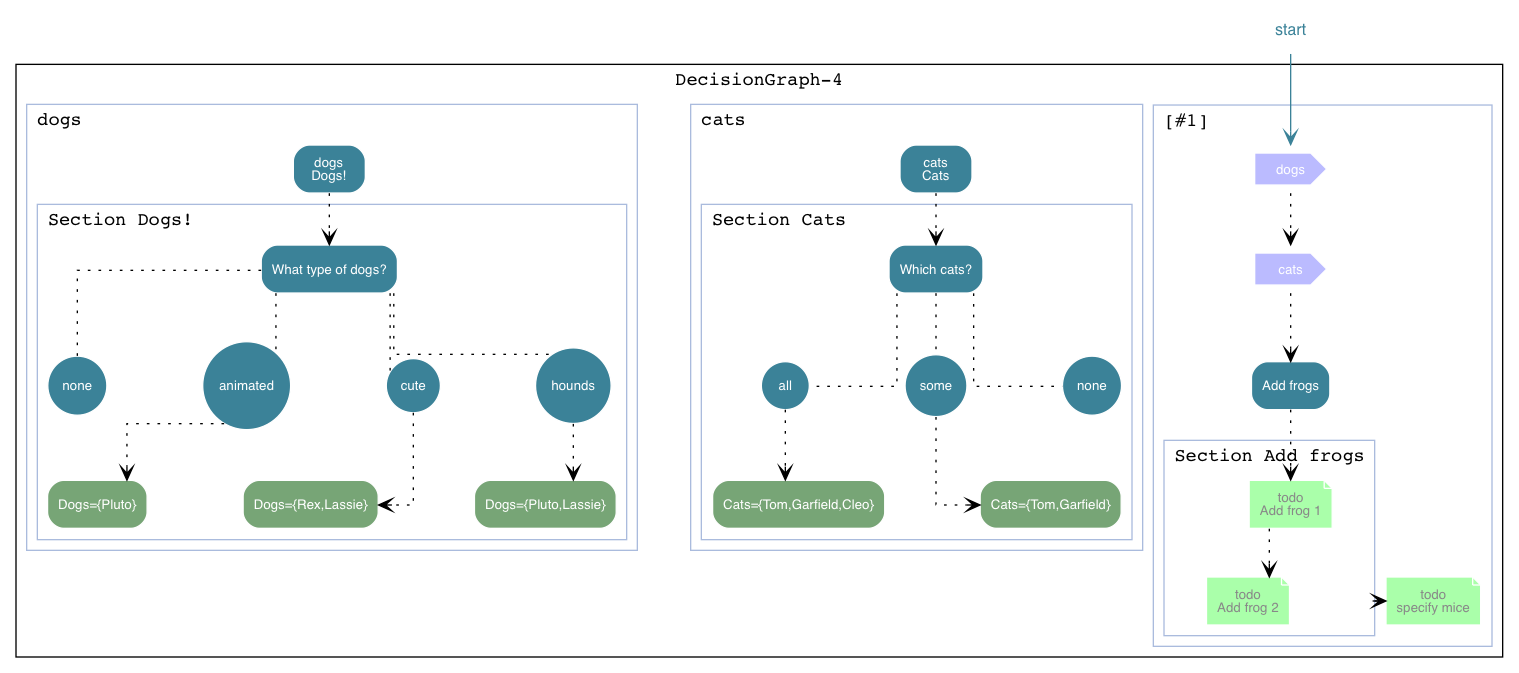
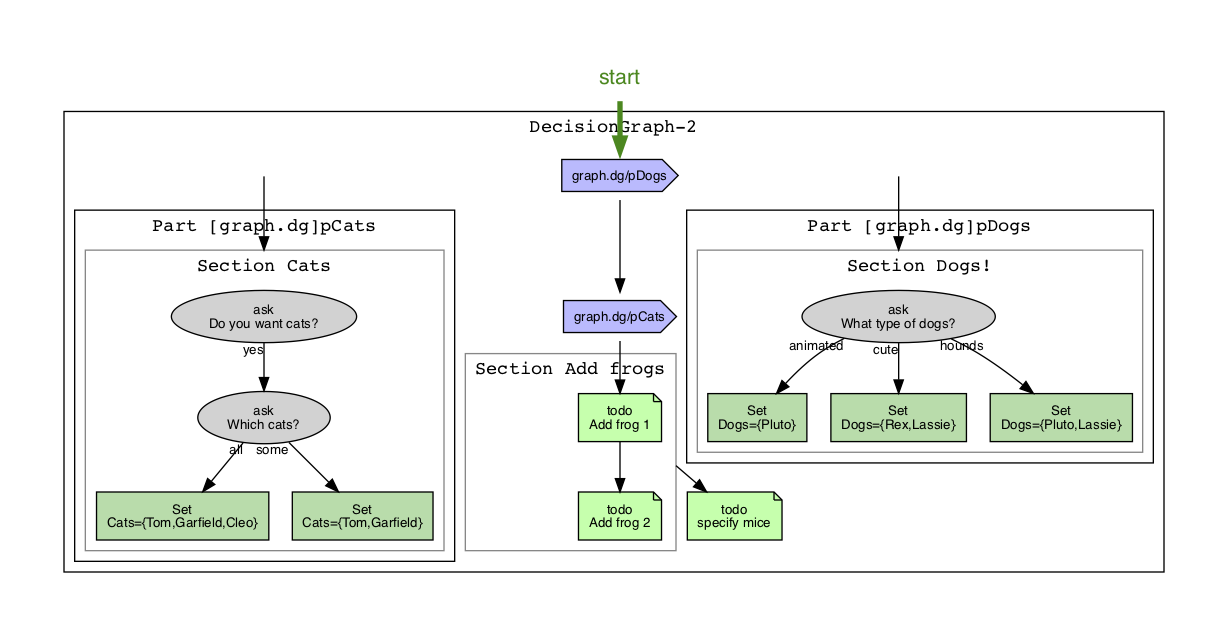
Updated the tutorial to support [part] and [continue]

Changed region(s): [[0.0, 0.0896, 0.9902, 0.9858], [0.8355, 0.0299, 0.8664, 0.0597]]

diff --git a/DOCS/sphinx-source/source/tutorial/section-node.rst b/DOCS/sphinx-source/source/tutorial/section-node.rst
@@ -1,6 +1,6 @@
 :doc:`Home <../index>` / :doc:`index`
 
-==--================
+====================
 The ``Section`` Node
 ====================
 
@@ -19,22 +19,24 @@ A section node has two components. An optional title, and a the set of decision 
     [set: Slot=value]
   ]
 
-Section nodes can be nested as needed.
+Section nodes can be nested as needed. It is also possible to skip to the end of a section, using a ``[continue]`` node.
 
 Sample Graph with Sections
 ~~~~~~~~~~~~~~~~~~~~~~~~~~
 
-Suppose we want the user to select three independent sets of animals: dogs, cats, and frogs. The graph below uses sections to logically group the nodes that deal with each animal type together. Note that sections can be inlined with normal flow of the graphs (as is the ``>frogs<`` section), or live outside the normal flow, and be referred to by a :doc:`call </decision-graphs/call-node>` (like ``>dogs<`` and ``>cats<`` below). In the latter case, if the intension is to execute only the called section, it has to be followed by an :doc:`end </decision-graphs/end-node>` node.
+Suppose we want the user to select three independent sets of animals: dogs, cats, and frogs. The graph below uses sections to logically group the nodes that deal with each animal type together.
+
+Sections are normally inlined, that is, are part of the decision graph. If a section is large enough, it may make sense to wrap it in a ``part`` node, and then :doc:`call </decision-graphs/call-node>` it. In the code below, the ``>frogs<`` section is inlined, and the ``>cats<`` and ``>dogs<`` sections are not.
+
+The ``>cats<`` section demonstrates a typical use of a ``[continue]`` node: It starts by asking the user whether she is interested in adding cats at all. If the answer is "no", the rest of the section is skipped.
 
 .. include :: code/section-node/graph.dg
    :code:
    :number-lines:
 
-
 .. figure :: code/section-node/graph-dg.png
 
-  Visualization of a decision graph with sections. This visualization was done using
-  the ``-style=f11`` flag.
+  Visualization of a decision graph with sections.
 
 
 This completes the types of nodes PolicyModels currently has to offer. The last tutorial will look into a :doc:`why the order of values in a slot matters<value-order>`.

diff --git a/DOCS/sphinx-source/source/decision-graphs/call-node.rst b/DOCS/sphinx-source/source/decision-graphs/call-node.rst
@@ -10,14 +10,22 @@ The equivalent of a procedure call in other programming languages.
 
 Consider the following graph::
 
-  [>n1< call: s1]
-  [>n2< end]
-  [>s1< set: hello=world]
-  [>s2< set: lorem=ipsum]
-  [>s3< end]
+  [>n1< call: p1]
+  [>n2< ask: ...]
 
-The engine starts at node ``n1``, which calls node ``s1`` (technically, ``n1`` is pushed onto a call stack at this point). The engine then moves to nodes ``s2`` and ``s3`` as usual. ``s3``, being an :doc:`end-node`, terminates the current traversal (technically - pops the stack) and the engine  moves to ``n1``'s successor, ``n2``. ``n2`` is again an :doc:`end-node`, so the current traversal is terminated again. As the engine did not get to ``n2`` from any ``[call]`` node (technically - the call stack is empty), the interview halts. Thus, the nodes are executed in the following order:
+  [-->p1<
+    [>n3< set: hello=world]
+    [>n4< ask:
+      {text: continue?}
+      {no: [end]}
+    ]
+    [>n5< set: lorem=ipsum]
+  --]
+
+The engine starts at node ``n1``, which calls node ``p1`` (technically, ``n1`` is pushed onto a call stack at this point). The engine then moves to nodes ``n3`` and ``n4`` as usual. If the user answer "no" to ``n4``, the engine reaches the :doc:`[end] node<end-node>`, which makes it return from the call (technically, pops the stack). It the user answer "yes", the engine moves, as usual, to ``n5`` and then reaches the end of the ``part`` node. At this point the engine returns from the call (in the same manner as before). Either way, the engine arrives at node ``n2`` last.
+
+To summarize the execution order of the above code:
 
 .. raw:: html
 
-  <code> n1 &rarr; s1 &rarr; s2 &rarr; s3 &rarr; n2</code>
+  <code> n1 &rarr; p1 &rarr; n3 &rarr; n4 (&rarr; when user chooses "yes": n5) &rarr; n2 </code>

diff --git a/DOCS/sphinx-source/source/decision-graphs/section-node.rst b/DOCS/sphinx-source/source/decision-graphs/section-node.rst
@@ -5,7 +5,7 @@
 Section Node
 ============
 
-Groups other nodes in logical groups. A section can have a title.
+Sometimes it makes sense to mark a part of the decision tree as handling a specific issue. For example, "this section deals with asserting dataset provenance" or "this section assert the case's status with regards to civil law". For these cases, model developers can use the ``[section]`` node. This node groups nodes logically. It even allows adding a title to the node group.
 
 ::
 
@@ -15,3 +15,23 @@ Groups other nodes in logical groups. A section can have a title.
     [set:....]
     [section: ... ]
   ]
+
+
+Skipping the Rest of a Section
+------------------------------
+
+Often, sections start by asserting whether they are relevant to the case at all. Thus, it is useful to be able to skip the rest of the section, in case we find out that it is not relevant. To this end, PolicyModels supports the ``[continue]`` keyword::
+
+  [section:
+    {title: Health Data}
+    [ask:
+      {text: Are there any related health issues?}
+      {answers:
+        {no: [continue]}
+      }
+    ]
+
+    ... handle case health issues ...
+
+  ]
+

diff --git a/DOCS/sphinx-source/source/decision-graphs/index.rst b/DOCS/sphinx-source/source/decision-graphs/index.rst
@@ -41,7 +41,7 @@ Node types can be divided to three groups:
 
 Throughout the execution, the engine keeps a single value of the top-level type, referred to as *Current Value*. This value can be altered by :doc:`set nodes<set-node>`. At the end of the interview, this value holds the final tagging result. Additionally, the engine maintains a call stack of nodes. Pushing onto the stack is done by :doc:`call nodes<call-node>`. Popping is done by :doc:`end nodes<end-node>`.
 
-
+ 
 .. toctree::
    :glob:
    :titlesonly:
